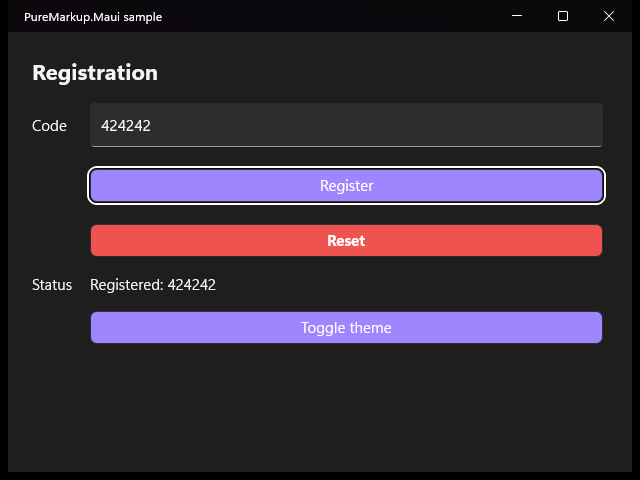
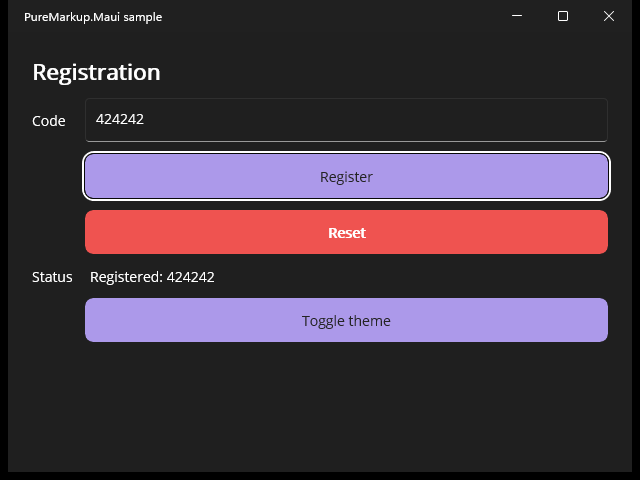
feat(samples): use the template default look in ScreenshotPage
Claude-Session: https://claude.ai/code/session_01XeE2xFtsHAMqmnmgeih6bm

diff --git a/samples/ScreenshotPage/AppPresets.cs b/samples/ScreenshotPage/AppPresets.cs
@@ -1,30 +1,20 @@
 using PureMarkup.Maui;
+using PureMarkup.Maui.Defaults;
 
 namespace ScreenshotPage;
 
-/// <summary>Theme vocabulary: one value per light/dark theme, live on theme change.</summary>
+/// <summary>Theme vocabulary on top of the template's DefaultTokens.</summary>
 public static class Tokens
 {
-    public static readonly Token<Color> Page = new(Colors.White, Color.FromArgb("#1E1E1E"), nameof(Page));
-    public static readonly Token<Color> Text = new(Colors.Black, Colors.WhiteSmoke, nameof(Text));
-    public static readonly Token<Color> Surface = new(Colors.AliceBlue, Color.FromArgb("#2D2D30"), nameof(Surface));
-    public static readonly Token<Color> Accent = new(Color.FromArgb("#512BD4"), Color.FromArgb("#9F86FF"), nameof(Accent));
     public static readonly Token<Color> Danger = new(Color.FromArgb("#C62828"), Color.FromArgb("#EF5350"), nameof(Danger));
-    public static readonly Token<double> Body = new(15, nameof(Body));
 }
 
-/// <summary>The app look. Entry and Button are registered as implicit defaults in App.</summary>
+/// <summary>
+/// The app look: the MAUI template's (DefaultLook, registered in App) plus a danger button derived
+/// from the default Button.
+/// </summary>
 public static class AppPresets
 {
-    public static Preset<Entry> Entry => Preset.Once<Entry>(static p => p
-        .FontSize(Tokens.Body).Height(44).Margin(5, 5)
-        .TextColor(Tokens.Text).BackgroundColor(Tokens.Surface)
-        .State(VisualStateManager.CommonStates.Disabled, static s => s.Opacity(0.5)));
-
-    public static Preset<Button> Button => Preset.Once<Button>(static p => p
-        .FontSize(Tokens.Body).Margin(5, 5).CornerRadius(6)
-        .TextColor(Colors.White).BackgroundColor(Tokens.Accent));
-
-    public static Preset<Button> DangerButton => Button.With(static p => p
-        .BackgroundColor(Tokens.Danger).Font(bold: true));
+    public static Preset<Button> DangerButton => DefaultLook.Button.With(static p => p
+        .BackgroundColor(Tokens.Danger).TextColor(Colors.White).Font(bold: true));
 }

diff --git a/samples/ScreenshotPage/MainPage.cs b/samples/ScreenshotPage/MainPage.cs
@@ -13,19 +13,19 @@ public class MainPage : ContentPage
 
     public MainPage()
     {
-        this.BindingContext(_vm).Padding(24).BackgroundColor(Tokens.Page)
+        this.BindingContext(_vm).Padding(24)
             .Content(new Grid
             {
                 Children =
                 {
-                    new Label().Text("Registration").Font(size: 22, bold: true).TextColor(Tokens.Text)
+                    new Label().Text("Registration").Font(size: 22, bold: true)
                         .Row(Row.Title).Column(Col.Label, Col.Input),
 
-                    new Label().Text("Code").FontSize(Tokens.Body).TextColor(Tokens.Text)
+                    new Label().Text("Code")
                         .VerticalTextAlignment(TextAlignment.Center)
                         .Row(Row.Code).Column(Col.Label),
 
-                    // Look comes from the implicit Entry preset registered in App.
+                    // Plain controls get the template look from DefaultLook (registered in App).
                     new Entry()
                         .Keyboard(Keyboard.Numeric).Placeholder("Enter number")
                         .Row(Row.Code).Column(Col.Input)
@@ -40,12 +40,12 @@ public class MainPage : ContentPage
                         .OnClicked(_vm.Reset)
                         .AutomationId("ResetButton"),
 
-                    new Label().Text("Status").FontSize(Tokens.Body).TextColor(Tokens.Text)
+                    new Label().Text("Status")
                         .Row(Row.Status).Column(Col.Label),
 
                     new Label()
                         .Text(Binding.Create(static (ViewModel vm) => vm.Status))
-                        .FontSize(Tokens.Body).TextColor(Tokens.Text)
+                        
                         .Row(Row.Status).Column(Col.Input).Margin(5, 0)
                         .AutomationId("StatusLabel"),
 

diff --git a/samples/ScreenshotPage/App.cs b/samples/ScreenshotPage/App.cs
@@ -1,11 +1,13 @@
 using PureMarkup.Maui;
+using PureMarkup.Maui.Defaults;
 
 namespace ScreenshotPage;
 
 public class App : Application
 {
+    // The MAUI template's Styles.xaml look, as implicit default presets.
     public App() =>
-        this.UsePresets(r => r.Default(AppPresets.Entry).Default(AppPresets.Button));
+        this.UsePresets(r => r.UseDefaultLook());
 
     protected override Window CreateWindow(IActivationState? activationState) =>
         new(new MainPage()) { Title = "PureMarkup.Maui sample", Width = 640, Height = 480 };
